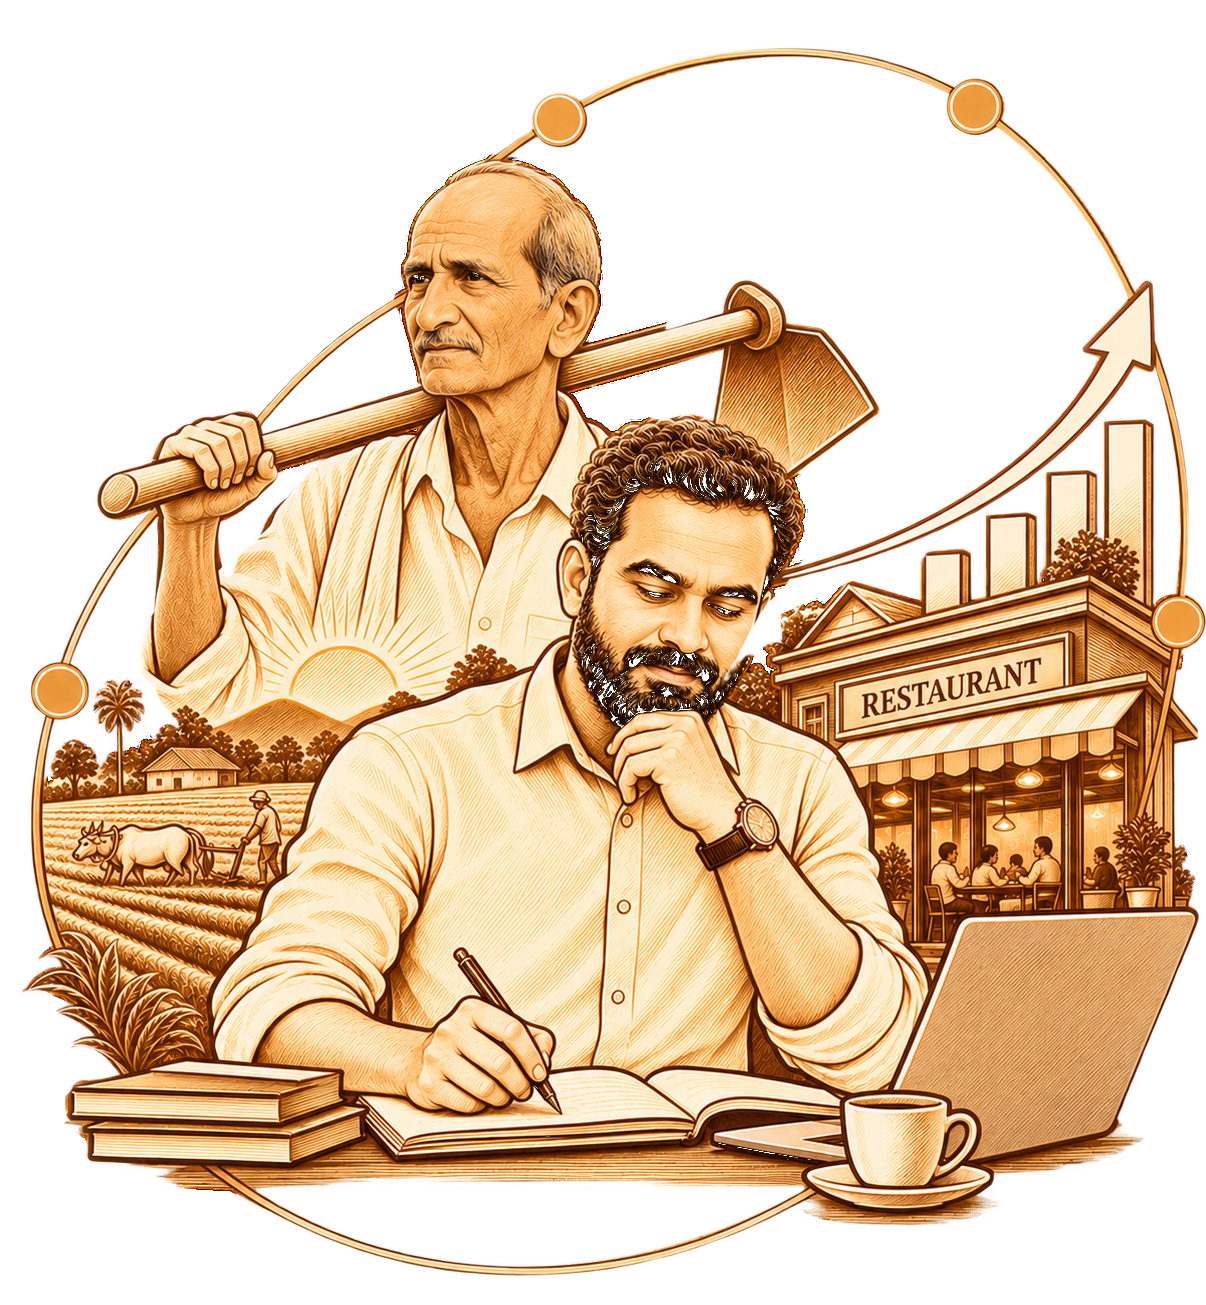
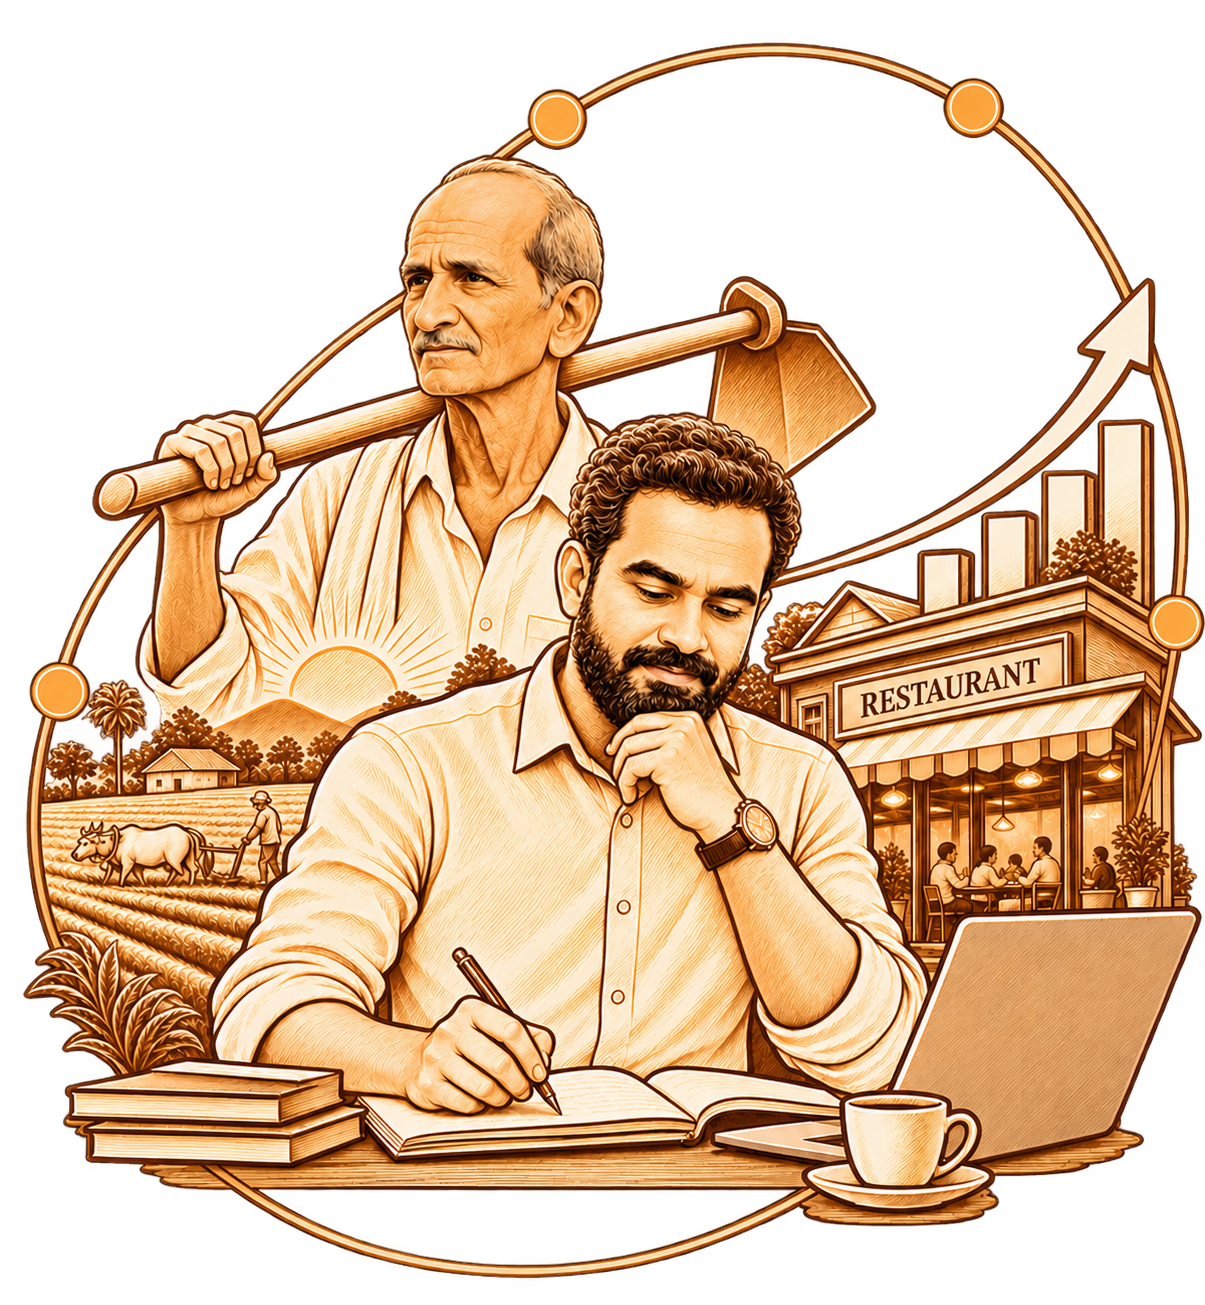
feat(about): apply user transparent images img2000new, img2026new, and futurenew

diff --git a/src/features/about/components/AboutTimeline.tsx b/src/features/about/components/AboutTimeline.tsx
@@ -34,7 +34,7 @@ const timelineData = [
     title: "A Lasting Legacy",
     exp: "Taking authentic flavours to the world.",
     desc: "Our ambition is to establish a strong global presence, introducing diverse cuisines across continents. We aim to create ventures recognized for quality, purpose, and a positive impact on society.",
-    image: "/future2000new.png"
+    image: "/futurenew.png"
   }
 ];
 
